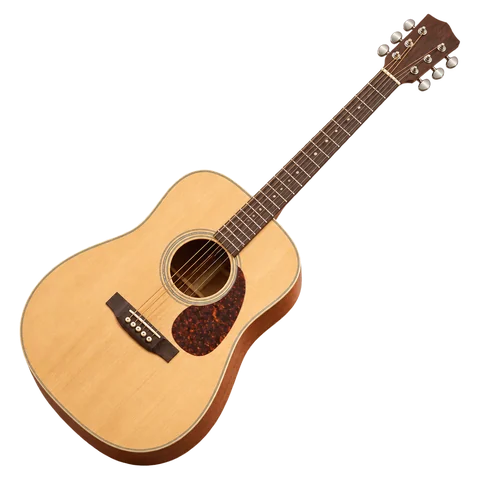
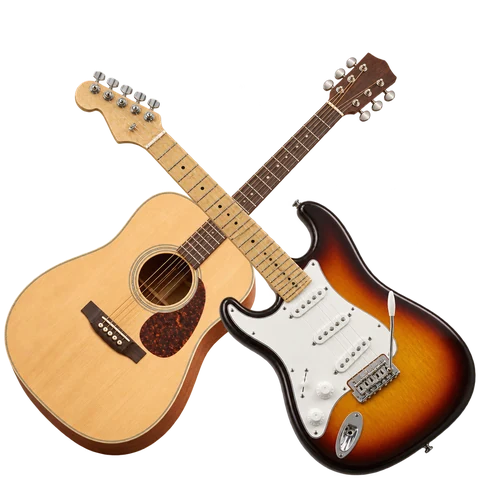
악기 순서 변경(건반·보컬·기타·바이올린·첼로·관악기), 통기타+일렉기타 이미지
Claude-Session: https://claude.ai/code/session_01XdM4BAajn4qSyKSEfPcJhB

diff --git a/index.html b/index.html
@@ -563,18 +563,18 @@ const GESTURES = {
 const g = (on, th) => ({on, th, inv:false});
 /* 악기별 기본값: 손이 자유로운지, 입이 막히는지, 몸이 얼마나 움직이는지에 따라 다르게 */
 const PRESETS = {
-  piano:  {name:"피아노", en:"Piano", note:"두 손이 건반 위에 있으니 <b>고개 돌리기</b>가 기본, <b>입 옆으로</b>는 보조입니다. 쉼표에서 한 손을 들어 <b>휙 쓸어도</b> 넘어갑니다.",
+  piano:  {name:"건반", en:"Keys", note:"두 손이 건반 위에 있으니 <b>고개 돌리기</b>가 기본, <b>입 옆으로</b>는 보조입니다. 쉼표에서 한 손을 들어 <b>휙 쓸어도</b> 넘어갑니다.",
            g:{head:g(true,.12), mouth:g(true,.5), wink:g(false,.6), hand:g(true,.24)}, hold:250, cool:1200},
+  voice:  {name:"보컬", en:"Vocal", note:"손이 자유로우니 <b>손 넘기기</b>가 기본입니다. 노래하며 고개를 많이 움직이므로 고개 기준은 높였고, 입 동작은 끕니다.",
+           g:{head:g(true,.22), mouth:g(false,.5), wink:g(false,.6), hand:g(true,.24)}, hold:400, cool:1500},
+  guitar: {name:"통기타, 일렉기타", en:"Guitar", note:"지판을 보느라 고개를 자주 숙이니 기준을 조금 높였습니다. <b>고개 돌리기</b> + <b>입 옆으로</b>.",
+           g:{head:g(true,.15), mouth:g(true,.5), wink:g(false,.6), hand:g(false,.24)}, hold:300, cool:1300},
   violin: {name:"바이올린, 비올라", en:"Violin, Viola", note:"턱받침 때문에 고개가 늘 기울어 있어요. 악기를 든 자세로 <b>기준 잡기</b>를 꼭 하세요. 고개 기준을 높이고 <b>입 옆으로</b>를 같이 씁니다. 활 동작 때문에 손 넘기기는 꺼 둡니다.",
            g:{head:g(true,.17), mouth:g(true,.5), wink:g(false,.6), hand:g(false,.24)}, hold:350, cool:1500},
   cello:  {name:"첼로, 베이스", en:"Cello, Bass", note:"앉아서 악기를 안고 연주해 고개가 비교적 자유롭습니다. <b>고개 돌리기</b> + <b>입 옆으로</b>.",
            g:{head:g(true,.15), mouth:g(true,.5), wink:g(false,.6), hand:g(false,.24)}, hold:300, cool:1300},
-  guitar: {name:"기타, 우쿨렐레", en:"Guitar", note:"지판을 보느라 고개를 자주 숙이니 기준을 조금 높였습니다. <b>고개 돌리기</b> + <b>입 옆으로</b>.",
-           g:{head:g(true,.15), mouth:g(true,.5), wink:g(false,.6), hand:g(false,.24)}, hold:300, cool:1300},
   wind:   {name:"관악기", en:"Winds", note:"입이 악기에 닿아 있어 <b>입 동작은 꺼 둡니다</b>. <b>윙크</b>와 <b>고개 돌리기</b>를 씁니다. 악기가 얼굴 아래쪽을 가리면 인식이 약해질 수 있어요.",
            g:{head:g(true,.18), mouth:g(false,.5), wink:g(true,.55), hand:g(false,.24)}, hold:300, cool:1500},
-  voice:  {name:"노래", en:"Voice", note:"손이 자유로우니 <b>손 넘기기</b>가 기본입니다. 노래하며 고개를 많이 움직이므로 고개 기준은 높였고, 입 동작은 끕니다.",
-           g:{head:g(true,.22), mouth:g(false,.5), wink:g(false,.6), hand:g(true,.24)}, hold:400, cool:1500},
   drum:   {name:"드럼, 타악기", en:"Percussion", note:"몸 움직임이 커서 오작동을 막도록 <b>더 오래 유지</b>해야 넘어갑니다. 고개 기준도 높였습니다.",
            g:{head:g(true,.2), mouth:g(true,.6), wink:g(false,.6), hand:g(false,.24)}, hold:500, cool:2000},
 };

diff --git a/sw.js b/sw.js
@@ -1,5 +1,5 @@
 // 핸즈프리 악보 — 오프라인 저장용 (버전을 올리면 새 파일로 교체됩니다)
-const VERSION = "smart-score-v7";
+const VERSION = "smart-score-v8";
 const FILES = [
   "./", "./index.html", "./manifest.webmanifest", "./icon-192.png", "./icon-512.png",
   "./vendor/pdf.min.mjs", "./vendor/pdf.worker.min.mjs", "./vendor/vision_bundle.mjs",
